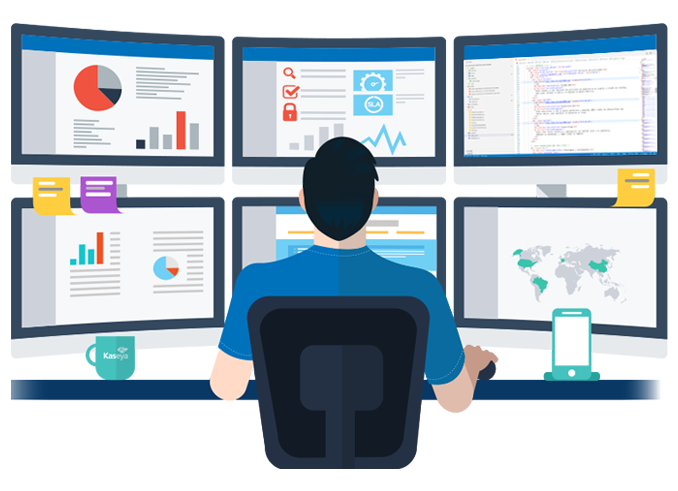
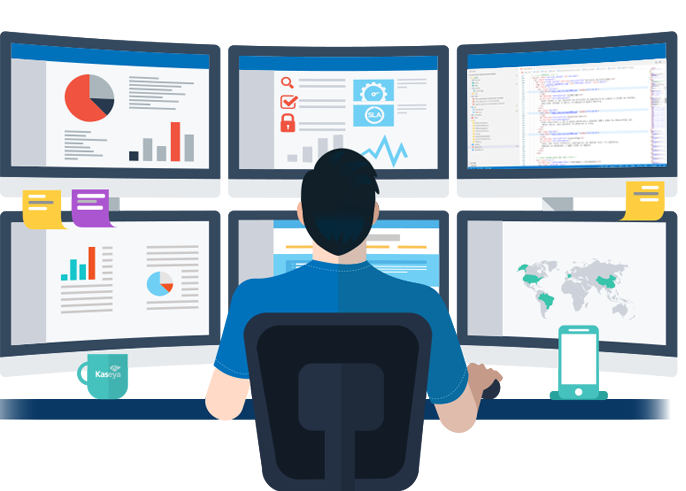
Modificar imagen en sección About

diff --git a/index.html b/index.html
@@ -184,9 +184,9 @@
             <div class="container-img">
               <picture>
                 <source media="(max-width: 600px)"
-                  srcset="https://res.cloudinary.com/dwqk2mkgh/image/upload/f_auto,q_auto/w_500/v1704799323/Portfolio-Personal/about2_i3tmxy.png">
+                  srcset="https://res.cloudinary.com/dwqk2mkgh/image/upload/f_auto,q_auto/w_500/v1704799677/Portfolio-Personal/about2_q4rtiu.png">
                 <img
-                  src="https://res.cloudinary.com/dwqk2mkgh/image/upload/f_auto,q_auto/v1704799323/Portfolio-Personal/about2_i3tmxy.png"
+                  src="https://res.cloudinary.com/dwqk2mkgh/image/upload/f_auto,q_auto/v1704799677/Portfolio-Personal/about2_q4rtiu.png"
                   alt="Imagen de la sección sobre mí">
               </picture>
             </div>
